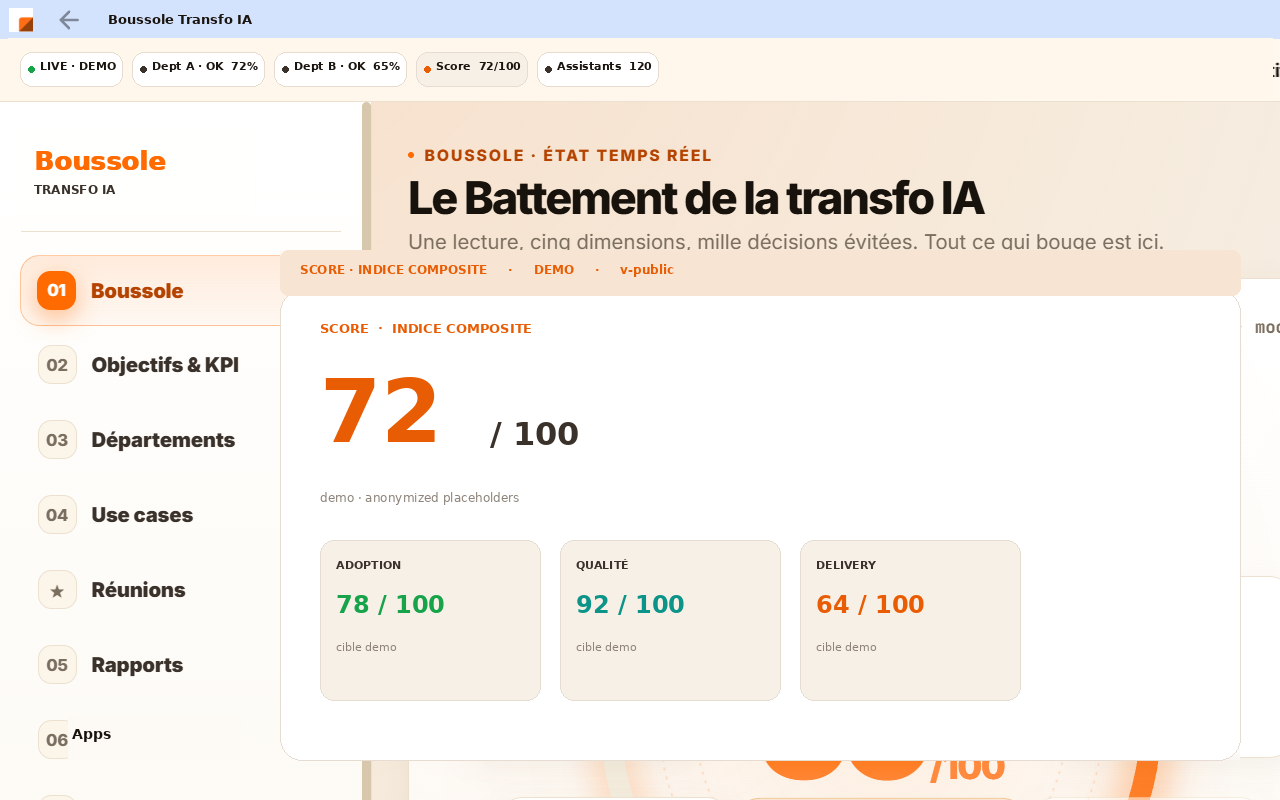
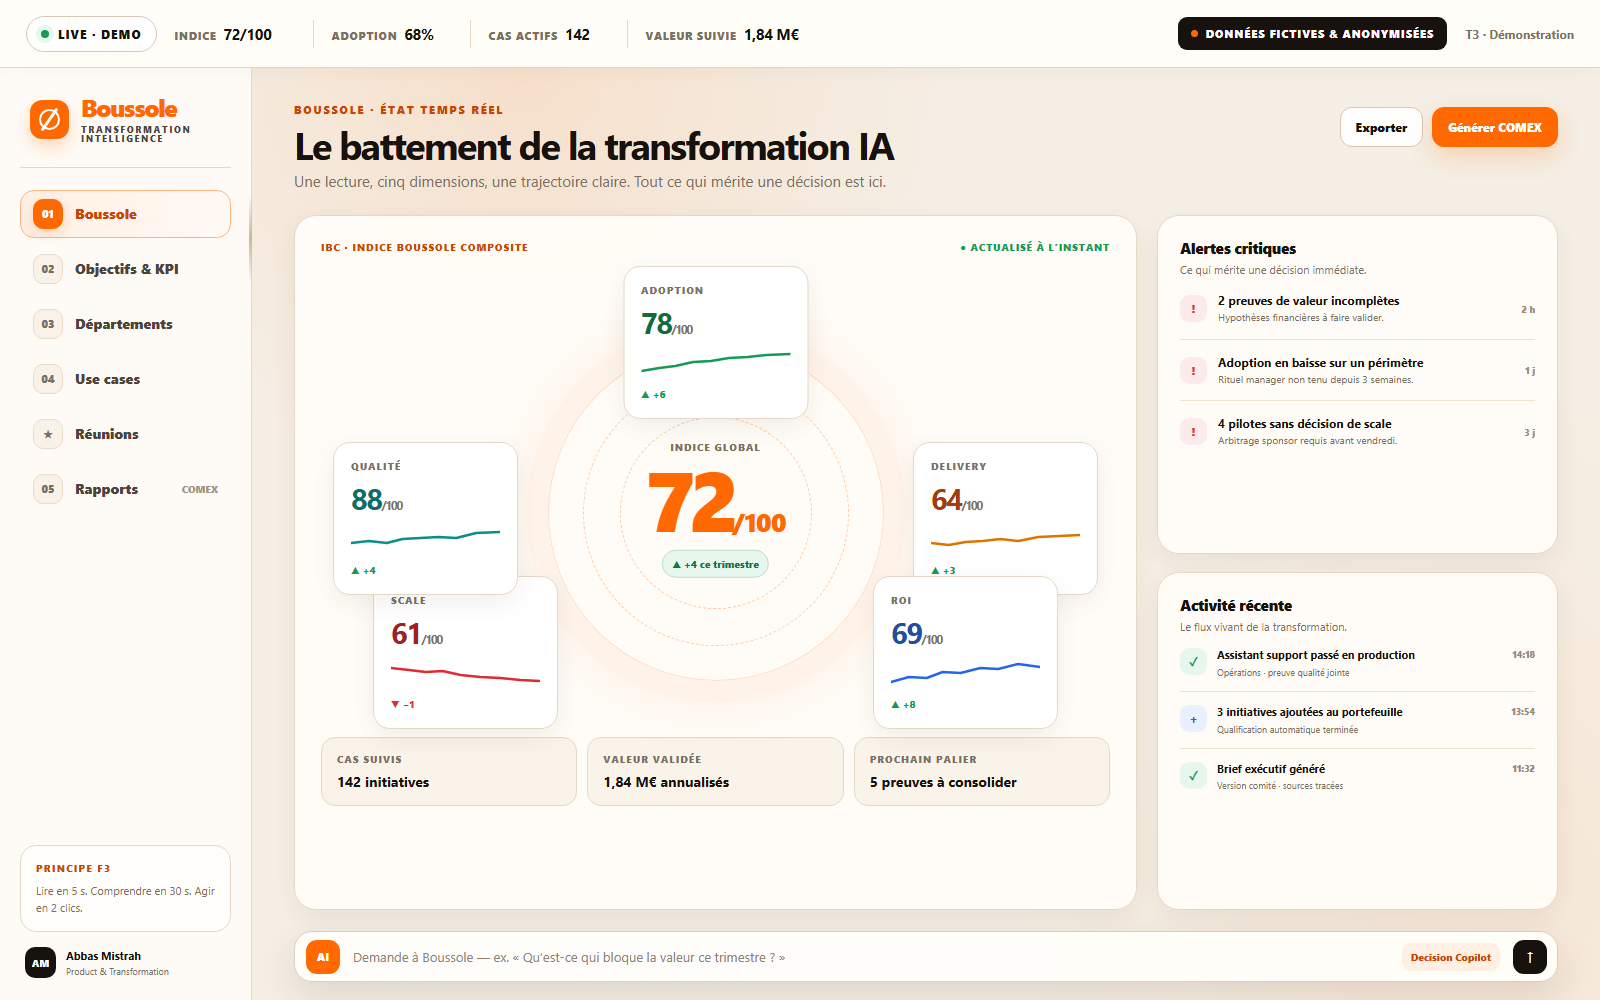
docs: rebrand Boussole showcase

diff --git a/README.md b/README.md
@@ -1,83 +1,194 @@
-# Boussole
+<div align="center">
 
-**AI transformation operating system** — cockpit that turns a use-case portfolio into board-ready decisions: selection, adoption, governance, proof.
+# 🧭 BOUSSOLE
 
-> Not a dashboard toy. The system that keeps AI work decidable for a COMEX.
+### Enterprise AI Transformation Intelligence
+
+**From scattered initiatives to governed execution and proof of value.**
+
+[![Product](https://img.shields.io/badge/Product-Transformation%20Intelligence-ff6900?style=for-the-badge&labelColor=17120d)](#product-system)
+[![Focus](https://img.shields.io/badge/Focus-Adoption%20%C2%B7%20ROI%20%C2%B7%20Governance-17120d?style=for-the-badge&labelColor=ff6900)](#operating-loop)
+[![Status](https://img.shields.io/badge/Status-Public%20Product%20Showcase-ffffff?style=for-the-badge&labelColor=17120d)](#public-showcase--privacy)
+
+</div>
 
 <p align="center">
-  <img src="docs/hero.png" alt="Boussole — Le Battement / IBC live" width="100%" />
+  <img src="docs/hero.png" alt="Boussole transformation intelligence command center" width="100%" />
 </p>
 
----
-
-## What it is
-
-| Layer | Job |
-|:------|:----|
-| **Selection** | What to fund, what to kill, who owns the case |
-| **Adoption** | Operating model, cadence, owners, enablement |
-| **Governance** | Risks, go–no-go, compliance path |
-| **Proof** | KPI / IBC, FinOps signal, COMEX narrative |
-
-Built and run in a multi-department AI transformation mandate.
+> **Boussole is the decision layer for enterprise AI transformation.** It connects strategy, portfolio execution, adoption, risk and value so leaders can see what is moving, decide what matters and prove what the transformation creates.
 
 ---
 
-## Architecture
+## Why Boussole
 
-```text
-                    ┌─────────────────────────┐
-                    │     COMEX / sponsors     │
-                    └────────────┬────────────┘
-                                 │ mandate / KPI
-                    ┌────────────▼────────────┐
-                    │        BOUSSOLE          │
-                    │  portfolio · owners ·    │
-                    │  risks · proof · cadence │
-                    └─────┬───────────┬───────┘
-           ┌──────────────┘           └──────────────┐
-           ▼                                         ▼
-   Use-case pipeline                          Enablement
-   (select → live)                            & adoption
-           │
-           ▼
-   Delivery surfaces (e.g. LeBon AI)
+Enterprise AI rarely fails because teams lack ideas. It fails because initiatives are scattered, ownership is unclear, evidence arrives too late and activity is confused with value.
+
+Boussole creates one operating picture across the transformation:
+
+| Leadership question | Boussole answer |
+|:--|:--|
+| **Where are we now?** | A live composite index across adoption, delivery, ROI, scale and quality |
+| **What deserves attention?** | Prioritised alerts, blockers, confidence levels and next decisions |
+| **Who owns the outcome?** | Department, sponsor, owner, milestone and next action on every initiative |
+| **What should scale—or stop?** | A governed portfolio from idea to proof, with explicit stage gates |
+| **What value did we create?** | Traced business impact, validated assumptions and executive-ready evidence |
+
+---
+
+## Product system
+
+Boussole is not a collection of dashboards. It is a connected operating system with six decision surfaces:
+
+| Surface | Decision it supports |
+|:--|:--|
+| **Command Pulse** | Read the health of the transformation in seconds |
+| **Objectives & KPI** | Connect strategic targets to measurable operating signals |
+| **Departments** | Compare momentum, ownership and blockers across the organisation |
+| **Use-case Portfolio** | Qualify, prioritise, govern and scale initiatives |
+| **Decision Memory** | Turn meetings into decisions, owners and due dates |
+| **Executive Evidence** | Convert live signals into a board-ready narrative |
+
+---
+
+## Operating loop
+
+```mermaid
+flowchart LR
+    A[Signal terrain] --> B[Qualifier]
+    B --> C[Prioriser]
+    C --> D[Livrer]
+    D --> E[Mesurer]
+    E --> F[Décider]
+    F --> G[Scaler ou arrêter]
+    G --> H[Prouver la valeur]
+    H -. apprentissage .-> B
 ```
 
-**Principle:** the model is the last floor. Selection and adoption sit above it.
+The loop closes the gap between **strategy**, **execution** and **evidence**. Every stage has an owner, a decision rule and a proof threshold.
 
 ---
 
-## Screens
+## Product tour
 
-| View | File |
-|------|------|
-| Hero — Battement / IBC | `docs/hero.png` |
-| Objectifs & KPI | `docs/objectifs.png` |
-| Départements | `docs/departements.png` |
-| Use cases | `docs/usecases.png` |
-| Rapports | `docs/rapports.png` |
-| Réunions | `docs/reunions.png` |
+### 01 — Command Pulse
+
+The transformation at a glance: one composite index, five operating dimensions, critical alerts, recent activity and the next proof threshold.
 
 <p align="center">
-  <img src="docs/departements.png" alt="Boussole — Départements" width="100%" />
+  <img src="docs/hero.png" alt="Boussole Command Pulse" width="100%" />
 </p>
+
+### 02 — Objectives & KPI
+
+Each strategic objective is translated into a live signal, a target, a weighting and the next concrete action required to move the score.
 
 <p align="center">
-  <img src="docs/usecases.png" alt="Boussole — Use cases" width="100%" />
+  <img src="docs/objectifs.png" alt="Boussole objectives and KPI" width="100%" />
+</p>
+
+### 03 — Department Momentum
+
+A comparable view of business-unit progress—portfolio, live initiatives, maturity, blockers and the next move—without hiding the organisational reality behind averages.
+
+<p align="center">
+  <img src="docs/departements.png" alt="Boussole department momentum" width="100%" />
+</p>
+
+### 04 — Use-case Portfolio
+
+A governed lifecycle from signal to scale. Each initiative carries a problem, owner, stage, expected value, payback and evidence status.
+
+<p align="center">
+  <img src="docs/usecases.png" alt="Boussole AI use-case portfolio" width="100%" />
+</p>
+
+### 05 — Decision Memory
+
+Meeting notes become structured decisions, named owners, deadlines and risks, linked back to the transformation portfolio.
+
+<p align="center">
+  <img src="docs/reunions.png" alt="Boussole meeting decision memory" width="100%" />
+</p>
+
+### 06 — Executive Evidence
+
+Live operating signals are converted into concise COMEX-ready briefs: what changed, what value is validated, where confidence is weak and which arbitrations are required.
+
+<p align="center">
+  <img src="docs/rapports.png" alt="Boussole executive evidence and reports" width="100%" />
 </p>
 
 ---
 
-## Status
+## System architecture
 
-Showcase of the **system narrative** + selected UI.  
-Sensitive org detail must be reviewed before any public push (see `HOLD.md`).
+```mermaid
+flowchart TB
+    subgraph Inputs[Operating signals]
+      A[Use-case portfolio]
+      B[Adoption & enablement]
+      C[Delivery & quality]
+      D[Cost, ROI & business impact]
+      E[Meetings & decisions]
+    end
+
+    subgraph Core[Boussole intelligence layer]
+      F[Unified data model]
+      G[Composite indicators]
+      H[Decision rules & confidence]
+      I[Traceability & narrative engine]
+    end
+
+    subgraph Outputs[Decision surfaces]
+      J[Transformation team]
+      K[Department owners]
+      L[Sponsors & COMEX]
+    end
+
+    A --> F
+    B --> F
+    C --> F
+    D --> F
+    E --> F
+    F --> G --> H --> I
+    I --> J
+    I --> K
+    I --> L
+```
+
+### Design principles
+
+- **F3 by default:** read in 5 seconds, understand in 30 seconds, act in 2 clicks.
+- **Evidence before theatre:** no “green” status without a source, owner and confidence level.
+- **Decision over reporting:** every view must make the next move obvious.
+- **Value over volume:** initiative counts never substitute for adoption or realised impact.
+- **One operating language:** the same definitions flow from teams to executives.
 
 ---
 
-## Author
+## Public showcase & privacy
 
-**Abbas Mistrah** — Directeur / VP AI & Transformation  
+This repository presents the **product narrative and selected interface views** of Boussole.
 
-[mistrah.com](https://mistrah.com) · [ORCID](https://orcid.org/0009-0009-5944-585X) · [LinkedIn](https://www.linkedin.com/in/abbas-mistrah-b0b53119a)
+All public screenshots use:
+
+- fictional or deliberately modified figures;
+- generic departments, initiatives and owners;
+- Boussole-only branding;
+- no production records, personal data or confidential company identifiers.
+
+The visuals demonstrate the product logic and design system; they are not exports of a production dataset.
+
+---
+
+## Product leadership
+
+**Abbas Mistrah** — AI Transformation, Product & Governance  
+[mistrah.com](https://mistrah.com) · [LinkedIn](https://www.linkedin.com/in/abbas-mistrah-b0b53119a) · [ORCID](https://orcid.org/0009-0009-5944-585X)
+
+<div align="center">
+
+**See the system. Make the decision. Prove the value.**
+
+</div>
